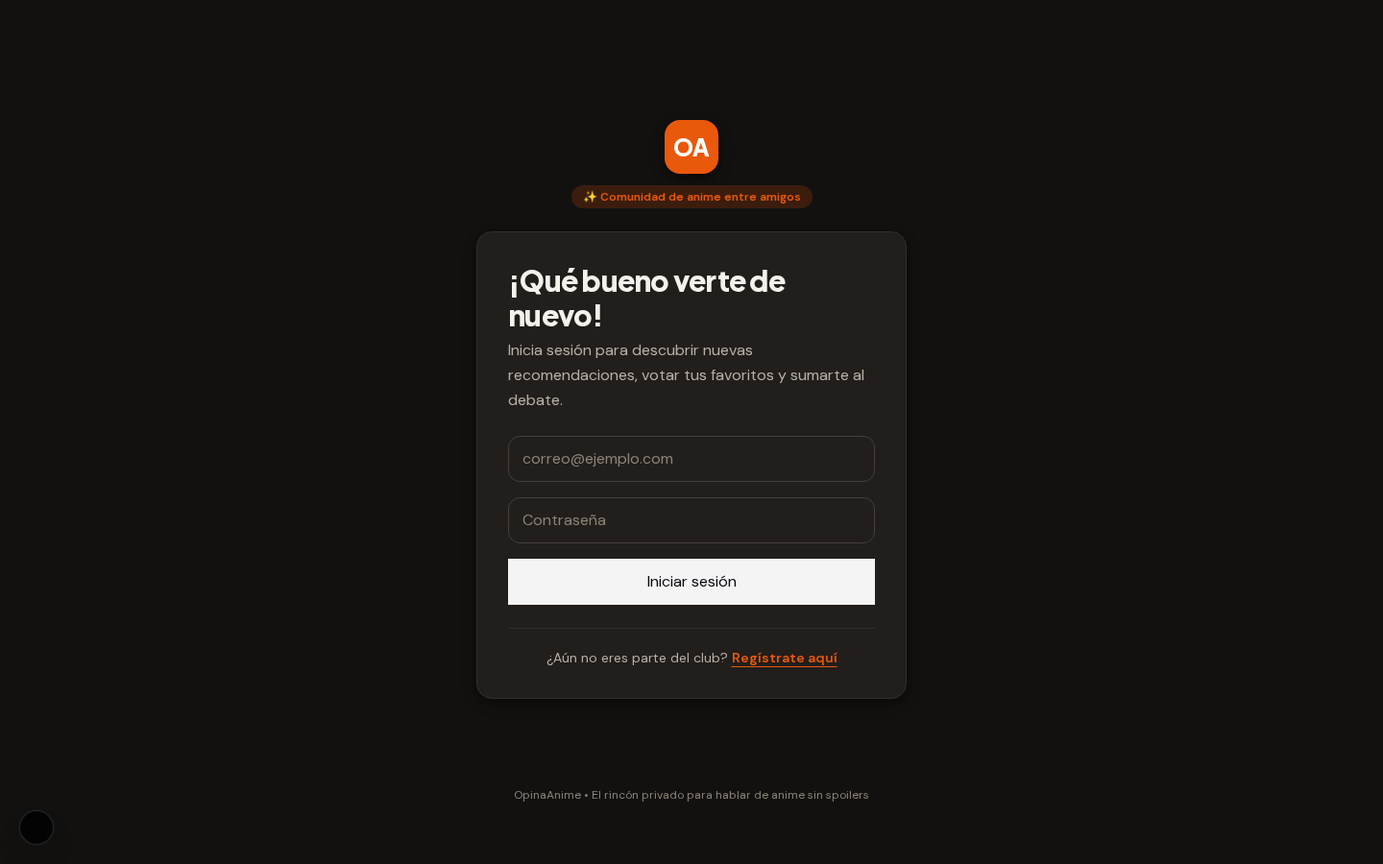
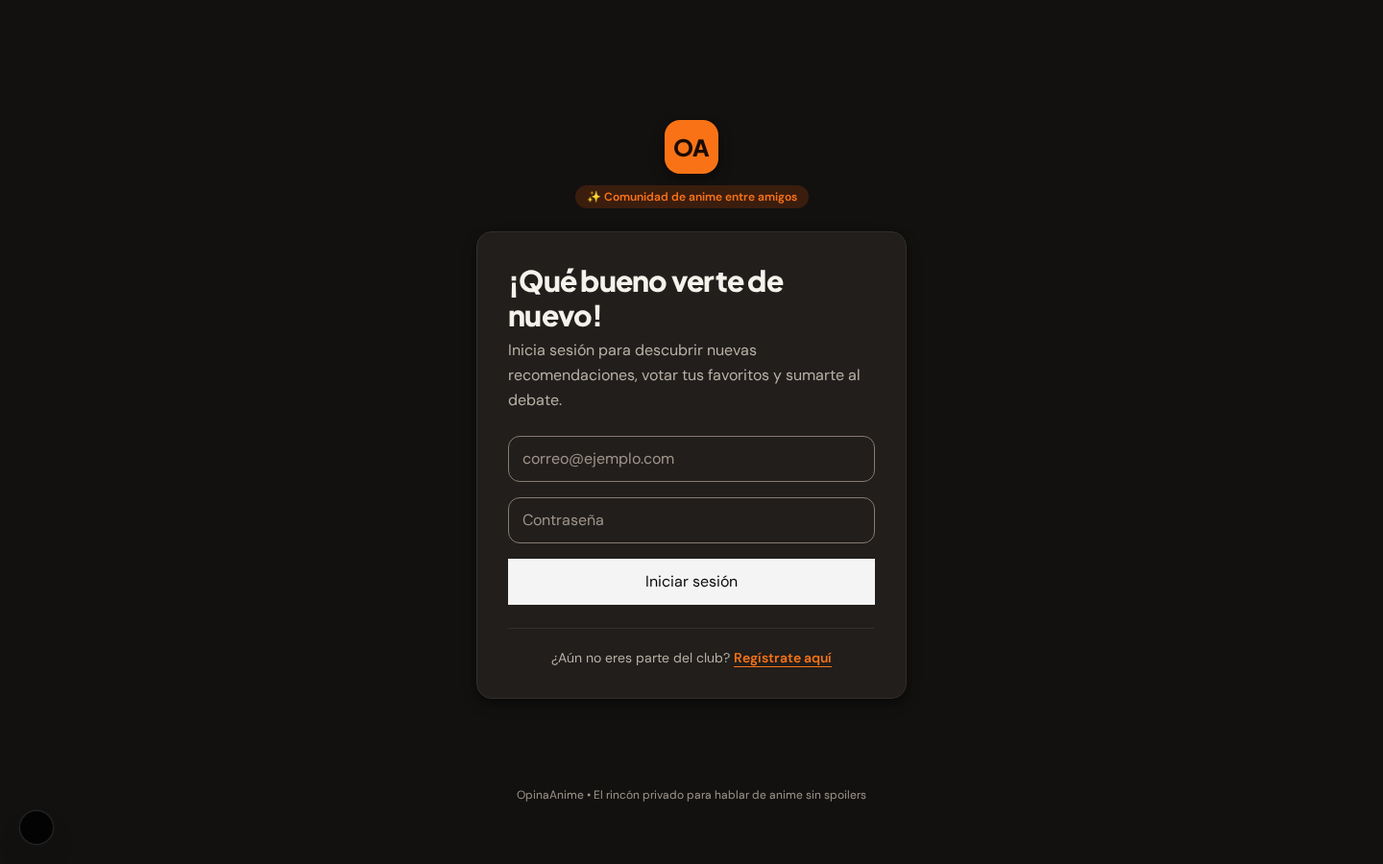
test(e2e): optimizar capturas móviles, eliminar duplicados y documentar ronda 1
- Elimina capturas duplicadas sin sufijo (home y login) dejando las variantes -light y -dark.
- Limita la altura de mobile-home-* a viewport + 1 scroll (< 360 KB por PNG).
- Actualiza DESIGN_NOTES.md con la tabla de contraste recalculada y la sección Ronda 1 de correcciones.

diff --git a/e2e/screenshots.spec.ts b/e2e/screenshots.spec.ts
@@ -2,7 +2,7 @@ import { existsSync, mkdirSync } from "node:fs";
 import path from "node:path";
 import { expect, test, type Page } from "@playwright/test";
 
-// Capturas de página completa para comparar el antes/después del rediseño.
+// Capturas de página para comparar el antes/después del rediseño.
 // Requiere: Postgres local + `npm run db:push` + `npm run db:seed:e2e`.
 // Salida: SHOT_DIR (por defecto docs/opinaanime-redesign/screenshots/after), archivo <proyecto>-<página>.png
 const SHOT_DIR = process.env.SHOT_DIR ?? "docs/opinaanime-redesign/screenshots/after";
@@ -62,10 +62,24 @@ async function settle(page: Page) {
   await assertNoHorizontalOverflow(page);
 }
 
-async function shot(page: Page, name: string) {
+async function shot(page: Page, name: string, options?: { clipHeight?: number }) {
   await settle(page);
-  const file = path.join(SHOT_DIR, `${test.info().project.name}-${name}.png`);
-  await page.screenshot({ path: file, fullPage: true, animations: "disabled" });
+  const projectName = test.info().project.name;
+  const file = path.join(SHOT_DIR, `${projectName}-${name}.png`);
+  const viewport = page.viewportSize();
+
+  if (options?.clipHeight && viewport) {
+    const pageHeight = await page.evaluate(() => document.documentElement.scrollHeight);
+    const height = Math.min(options.clipHeight, pageHeight);
+    await page.screenshot({
+      path: file,
+      fullPage: true,
+      clip: { x: 0, y: 0, width: viewport.width, height },
+      animations: "disabled",
+    });
+  } else {
+    await page.screenshot({ path: file, fullPage: true, animations: "disabled" });
+  }
 }
 
 async function login(page: Page) {
@@ -81,7 +95,6 @@ test.describe("capturas sin sesión", () => {
     await page.emulateMedia({ colorScheme: "light" });
     await page.goto("/login");
     await expect(page.locator('input[name="email"]')).toBeVisible();
-    await shot(page, "login");
     await shot(page, "login-light");
 
     await page.emulateMedia({ colorScheme: "dark" });
@@ -98,14 +111,17 @@ test.describe("capturas sin sesión", () => {
 
 test.describe("capturas con sesión", () => {
   test("home (claro y oscuro) y detalle", async ({ page }) => {
+    const isMobile = test.info().project.name === "mobile";
+    // En móvil capturamos viewport + 1 scroll (2 * 844 = 1688px); en desktop fullPage completo
+    const homeClipHeight = isMobile ? 1688 : undefined;
+
     await page.emulateMedia({ colorScheme: "light" });
     await login(page);
     await expect(page.getByText("Sousou no Frieren").first()).toBeVisible();
-    await shot(page, "home");
-    await shot(page, "home-light");
+    await shot(page, "home-light", { clipHeight: homeClipHeight });
 
     await page.emulateMedia({ colorScheme: "dark" });
-    await shot(page, "home-dark");
+    await shot(page, "home-dark", { clipHeight: homeClipHeight });
 
     await page.emulateMedia({ colorScheme: "light" });
     await page.goto(`/anime/${detailId}`);

diff --git a/docs/opinaanime-redesign/DESIGN_NOTES.md b/docs/opinaanime-redesign/DESIGN_NOTES.md
@@ -7,7 +7,7 @@
 
 ## 1. Paleta de Colores y Tokens (`@theme` + Variables CSS)
 
-Los colores están definidos como variables semánticas en `app/globals.css` (con adaptación automática mediante `@media (prefers-color-scheme: dark)` y soporte opcional mediante atributo `data-theme="light" | "dark"`) y expuestos a Tailwind CSS v4 con `@theme`.
+Los colores están definidos como variables semánticas en `app/globals.css` (con adaptación automática mediante `@media (prefers-color-scheme: dark)` y soporte mediante atributo `data-theme="light" | "dark"`, reutilizando un único conjunto de variables `--dark-*` sin duplicar hexadecimales) y expuestos a Tailwind CSS v4 con `@theme`.
 
 ### 1.1 Modo Claro (Cálido Crema / Papel Editorial)
 
@@ -19,15 +19,18 @@ Los colores están definidos como variables semánticas en `app/globals.css` (co
 | `--surface-elevated` | `bg-surface-elevated` | `#FDFBF7` | Tarjetas destacadas, hover de tarjetas, dropdowns |
 | `--fg` | `text-fg` | `#1C1917` | Texto principal y títulos (Stone 900 cálido) |
 | `--fg-muted` | `text-fg-muted` | `#57534E` | Texto secundario, metadatos, etiquetas |
-| `--fg-subtle` | `text-fg-subtle` | `#78716C` | Placeholders, contadores secundarios |
-| `--primary` | `bg-primary` / `text-primary` | `#C2410C` | Acción principal (Terracota / Naranja Anime cálido, accesible con texto blanco) |
+| `--fg-subtle` | `text-fg-subtle` | `#68625B` | Placeholders, pie de página, contadores secundarios |
+| `--primary` | `bg-primary` / `text-primary` | `#C2410C` | Acción principal (Terracota / Naranja Anime cálido) |
 | `--primary-hover` | `bg-primary-hover` | `#9A3412` | Hover de botón primario |
 | `--primary-soft` | `bg-primary-soft` | `#FFEDD5` | Fondo suave de acento / chip activo suave |
+| `--primary-fg` | `text-primary-fg` | `#FFFFFF` | Texto sobre fondo `--primary` en modo claro |
 | `--accent` | `text-accent` / `bg-accent` | `#4F46E5` | Acento secundario (Índigo comunidad / enlaces destacados) |
 | `--border` | `border-border` | `#E7E0D6` | Bordes de tarjetas, divisores |
-| `--border-strong` | `border-border-strong` | `#D6CEC2` | Bordes de inputs, controles interactivos |
+| `--border-strong` | `border-border-strong` | `#857C73` | Bordes de inputs, selects y controles interactivos (≥ 3:1 WCAG 1.4.11) |
 | `--ring` | `ring-ring` | `#EA580C` | Anillo de foco visible (`focus-visible`) |
-| `--danger` | `text-danger` / `bg-danger` | `#DC2626` | Errores, eliminar |
+| `--danger` | `text-danger` / `bg-danger` | `#B91C1C` | Errores, eliminar |
+| `--danger-hover` | `bg-danger-hover` | `#991B1B` | Hover de botón peligroso (`.btn-danger:hover`) |
+| `--danger-fg` | `text-danger-fg` | `#FFFFFF` | Texto sobre botón peligroso en hover |
 | `--danger-soft` | `bg-danger-soft` | `#FEF2F2` | Fondo de alerta de error |
 | `--success` | `text-success` | `#15803D` | Avisos de éxito, estado Terminado |
 | `--success-soft` | `bg-success-soft` | `#F0FDF4` | Fondo de aviso de éxito |
@@ -46,15 +49,18 @@ Los colores están definidos como variables semánticas en `app/globals.css` (co
 | `--surface-elevated` | `bg-surface-elevated` | `#2A2623` | Hover de tarjetas, elementos desplegables |
 | `--fg` | `text-fg` | `#F5F2EB` | Texto principal (marfil cálido) |
 | `--fg-muted` | `text-fg-muted` | `#B8B0A4` | Texto secundario, metadatos |
-| `--fg-subtle` | `text-fg-subtle` | `#8C8377` | Placeholders, ayudas secundarias |
-| `--primary` | `bg-primary` / `text-primary` | `#EA580C` | Acción principal (Naranja coral vibrante con texto blanco) |
-| `--primary-hover` | `bg-primary-hover` | `#F97316` | Hover de botón primario |
+| `--fg-subtle` | `text-fg-subtle` | `#9E9488` | Placeholders, pie de página, ayudas secundarias |
+| `--primary` | `bg-primary` / `text-primary` | `#F97316` | Acción principal (Naranja cálido luminoso accesible sobre `--primary-soft` y `--surface`) |
+| `--primary-hover` | `bg-primary-hover` | `#FB923C` | Hover de botón primario |
 | `--primary-soft` | `bg-primary-soft` | `#3B1D0E` | Fondo suave de acento primario |
+| `--primary-fg` | `text-primary-fg` | `#1A0B03` | Texto expreso oscuro de alto contraste sobre `--primary` |
 | `--accent` | `text-accent` / `bg-accent` | `#818CF8` | Acento secundario (Índigo suave) |
 | `--border` | `border-border` | `#332E2A` | Bordes de tarjetas, divisores |
-| `--border-strong` | `border-border-strong` | `#463F3A` | Bordes de inputs y selects |
+| `--border-strong` | `border-border-strong` | `#857B72` | Bordes de inputs y selects (≥ 3:1 WCAG 1.4.11) |
 | `--ring` | `ring-ring` | `#FB923C` | Anillo de foco visible (`focus-visible`) |
-| `--danger` | `text-danger` / `bg-danger` | `#F87171` | Texto/ícono de error o acción destructiva |
+| `--danger` | `text-danger` / `bg-danger` | `#FCA5A5` | Texto/ícono de error o acción destructiva |
+| `--danger-hover` | `bg-danger-hover` | `#B91C1C` | Hover de botón peligroso (`.btn-danger:hover`) |
+| `--danger-fg` | `text-danger-fg` | `#FFFFFF` | Texto sobre botón peligroso en hover |
 | `--danger-soft` | `bg-danger-soft` | `#351619` | Fondo de alerta de error |
 | `--success` | `text-success` | `#4ADE80` | Estado Terminado / éxito |
 | `--success-soft` | `bg-success-soft` | `#112A1C` | Fondo de aviso de éxito |
@@ -63,33 +69,65 @@ Los colores están definidos como variables semánticas en `app/globals.css` (co
 | `--info` | `text-info` | `#38BDF8` | Estado "Viendo actualmente" |
 | `--info-soft` | `bg-info-soft` | `#0F2634` | Fondo suave de estado viendo |
 
-### 1.3 Verificación de Ratios de Contraste (WCAG 2.1 AA)
+### 1.3 Tokens de Badges de Tier List (S–E)
 
-> Requisito WCAG AA: **≥ 4.5:1** para texto normal, **≥ 3.0:1** para texto grande (≥ 18pt o ≥ 14pt bold) y componentes UI.
-
-| Par Texto / Fondo | Modo | Colores (Hex) | Ratio Calculado | Cumplimiento |
+| Token CSS | Utilidad Tailwind | Hex | Ratio con `--tier-fg` (`#FFFFFF`) | Uso |
 |---|---|---|---|---|
-| `--fg` sobre `--bg` | Claro | `#1C1917` sobre `#FAF7F2` | **16.2 : 1** | AAA (Excelente) |
-| `--fg` sobre `--surface` | Claro | `#1C1917` sobre `#FFFFFF` | **17.4 : 1** | AAA (Excelente) |
-| `--fg-muted` sobre `--bg` | Claro | `#57534E` sobre `#FAF7F2` | **6.9 : 1** | AA / AAA texto normal |
-| `--fg-muted` sobre `--surface` | Claro | `#57534E` sobre `#FFFFFF` | **7.5 : 1** | AAA |
-| `#FFFFFF` sobre `--primary` | Claro | `#FFFFFF` sobre `#C2410C` | **5.18 : 1** | AA texto normal |
-| `--danger` sobre `--danger-soft` | Claro | `#B91C1C` sobre `#FEF2F2` | **5.9 : 1** | AA texto normal |
-| `--fg` sobre `--bg` | Oscuro | `#F5F2EB` sobre `#121110` | **16.4 : 1** | AAA (Excelente) |
-| `--fg` sobre `--surface` | Oscuro | `#F5F2EB` sobre `#211E1C` | **13.7 : 1** | AAA (Excelente) |
-| `--fg-muted` sobre `--bg` | Oscuro | `#B8B0A4` sobre `#121110` | **8.4 : 1** | AAA |
-| `--fg-muted` sobre `--surface` | Oscuro | `#B8B0A4` sobre `#211E1C` | **7.0 : 1** | AAA |
-| `#FFFFFF` sobre `--primary` ( botón ) | Oscuro | `#FFFFFF` sobre `#C2410C` / `#EA580C` | **5.18 : 1** (en `--btn-primary-bg: #C2410C`) | AA texto normal |
-| `--danger` sobre `--danger-soft` | Oscuro | `#FCA5A5` sobre `#351619` | **6.8 : 1** | AA texto normal |
+| `--tier-s` | `bg-tier-s` | `#B91C1C` | **6.47 : 1** | Tier S — Obra maestra |
+| `--tier-a` | `bg-tier-a` | `#C2410C` | **5.18 : 1** | Tier A — Excelente |
+| `--tier-b` | `bg-tier-b` | `#B45309` | **5.02 : 1** | Tier B — Muy bueno |
+| `--tier-c` | `bg-tier-c` | `#92400E` | **7.09 : 1** | Tier C — Entretenido |
+| `--tier-d` | `bg-tier-d` | `#15803D` | **5.02 : 1** | Tier D — Regular |
+| `--tier-e` | `bg-tier-e` | `#0F766E` | **5.47 : 1** | Tier E — Flojo |
+| `--tier-fg` | `text-tier-fg` | `#FFFFFF` | — | Texto sobre badges y overlays de Tier List |
+
+### 1.4 Verificación de Ratios de Contraste Actualizada (WCAG 2.1 AA y 1.4.11)
+
+> Requisito WCAG AA: **≥ 4.5:1** para texto normal y **≥ 3.0:1** para bordes de inputs y componentes UI (WCAG 1.4.11).
+
+| Par Texto / Borde sobre Fondo | Modo | Colores (Hex) | Ratio Calculado | Cumplimiento |
+|---|---|---|---|---|
+| `--fg` sobre `--bg` | Claro | `#1C1917` sobre `#FAF7F2` | **16.37 : 1** | AAA (Excelente) |
+| `--fg` sobre `--surface` | Claro | `#1C1917` sobre `#FFFFFF` | **17.49 : 1** | AAA (Excelente) |
+| `--fg-muted` sobre `--bg` | Claro | `#57534E` sobre `#FAF7F2` | **7.14 : 1** | AAA |
+| `--fg-muted` sobre `--surface` | Claro | `#57534E` sobre `#FFFFFF` | **7.63 : 1** | AAA |
+| `--fg-subtle` sobre `--bg` | Claro | `#68625B` sobre `#FAF7F2` | **5.64 : 1** | AA texto normal |
+| `--fg-subtle` sobre `--bg-subtle` | Claro | `#68625B` sobre `#F3EDE2` | **5.17 : 1** | AA texto normal |
+| `--fg-subtle` sobre `--surface` | Claro | `#68625B` sobre `#FFFFFF` | **6.02 : 1** | AA texto normal |
+| `--primary-fg` sobre `--primary` | Claro | `#FFFFFF` sobre `#C2410C` | **5.18 : 1** | AA texto normal |
+| `--primary` sobre `--primary-soft` | Claro | `#C2410C` sobre `#FFEDD5` | **4.52 : 1** | AA texto normal |
+| `--border-strong` sobre `--surface` | Claro | `#857C73` sobre `#FFFFFF` | **4.10 : 1** | AA UI ≥ 3:1 (WCAG 1.4.11) |
+| `--border-strong` sobre `--bg` | Claro | `#857C73` sobre `#FAF7F2` | **3.83 : 1** | AA UI ≥ 3:1 (WCAG 1.4.11) |
+| `--danger` sobre `--danger-soft` | Claro | `#B91C1C` sobre `#FEF2F2` | **5.91 : 1** | AA texto normal |
+| `--fg` sobre `--bg` | Oscuro | `#F5F2EB` sobre `#121110` | **16.87 : 1** | AAA (Excelente) |
+| `--fg` sobre `--surface` | Oscuro | `#F5F2EB` sobre `#211E1C` | **14.82 : 1** | AAA (Excelente) |
+| `--fg-muted` sobre `--bg` | Oscuro | `#B8B0A4` sobre `#121110` | **8.79 : 1** | AAA |
+| `--fg-muted` sobre `--surface` | Oscuro | `#B8B0A4` sobre `#211E1C` | **7.72 : 1** | AAA |
+| `--fg-subtle` sobre `--surface` | Oscuro | `#9E9488` sobre `#211E1C` | **5.56 : 1** | AA texto normal |
+| `--fg-subtle` sobre `--bg-subtle` | Oscuro | `#9E9488` sobre `#1A1816` | **5.94 : 1** | AA texto normal |
+| `--fg-subtle` sobre `--bg` | Oscuro | `#9E9488` sobre `#121110` | **6.33 : 1** | AA texto normal |
+| `--primary-fg` sobre `--primary` (logo OA, `.btn-primary`) | Oscuro | `#1A0B03` sobre `#F97316` | **6.85 : 1** | AA / AAA texto normal |
+| `--primary-fg` sobre `--primary-hover` | Oscuro | `#1A0B03` sobre `#FB923C` | **8.49 : 1** | AAA |
+| `--primary` sobre `--primary-soft` (badge ADMIN y chips) | Oscuro | `#F97316` sobre `#3B1D0E` | **5.48 : 1** | AA texto normal |
+| `--primary` sobre `--surface` | Oscuro | `#F97316` sobre `#211E1C` | **5.91 : 1** | AA texto normal |
+| `--border-strong` sobre `--surface` | Oscuro | `#857B72` sobre `#211E1C` | **4.00 : 1** | AA UI ≥ 3:1 (WCAG 1.4.11) |
+| `--border-strong` sobre `--bg` | Oscuro | `#857B72` sobre `#121110` | **4.56 : 1** | AA UI ≥ 3:1 (WCAG 1.4.11) |
+| `--danger` sobre `--danger-soft` | Oscuro | `#FCA5A5` sobre `#351619` | **8.64 : 1** | AAA |
+| `--tier-fg` sobre `--tier-s` | Ambos | `#FFFFFF` sobre `#B91C1C` | **6.47 : 1** | AA texto normal |
+| `--tier-fg` sobre `--tier-a` | Ambos | `#FFFFFF` sobre `#C2410C` | **5.18 : 1** | AA texto normal |
+| `--tier-fg` sobre `--tier-b` | Ambos | `#FFFFFF` sobre `#B45309` | **5.02 : 1** | AA texto normal |
+| `--tier-fg` sobre `--tier-c` | Ambos | `#FFFFFF` sobre `#92400E` | **7.09 : 1** | AAA |
+| `--tier-fg` sobre `--tier-d` | Ambos | `#FFFFFF` sobre `#15803D` | **5.02 : 1** | AA texto normal |
+| `--tier-fg` sobre `--tier-e` | Ambos | `#FFFFFF` sobre `#0F766E` | **5.47 : 1** | AA texto normal |
 
 ---
 
 ## 2. Tipografía
 
-Se utilizan fuentes de `next/font/google` (incluidas en Next.js sin agregar dependencias a `package.json`):
-- **Títulos y encabezados (`--font-display`)**: `Plus Jakarta Sans` (pesos 600, 700, 800). Redondeada, expresiva, cálida y muy legible en títulos de series y secciones.
-- **Cuerpo y controles (`--font-sans`)**: `DM Sans` o `Plus Jakarta Sans` con fallback `system-ui, -apple-system, sans-serif`.
-- **Monoespaciada (`--font-mono`)**: `JetBrains Mono` / `ui-monospace` para IDs de catálogo y contadores puntuales.
+Se utilizan fuentes locales mediante `next/font/local` con archivos `.woff2` variables alojados en `app/fonts/` junto con su licencia `OFL.txt` oficial (determinismo total de build sin depender de peticiones de red a Google Fonts y sin agregar dependencias a `package.json`):
+- **Títulos y encabezados (`--font-display`)**: `Plus Jakarta Sans` (`app/fonts/plus-jakarta-sans/PlusJakartaSans-VariableFont_wght.woff2`, pesos `400 800`, licencia `app/fonts/plus-jakarta-sans/OFL.txt`). Redondeada, expresiva, cálida y muy legible en títulos de series y secciones.
+- **Cuerpo y controles (`--font-sans`)**: `DM Sans` (`app/fonts/dm-sans/DMSans-VariableFont_wght.woff2`, pesos `400 700`, licencia `app/fonts/dm-sans/OFL.txt`) con fallback `system-ui, -apple-system, sans-serif`.
+- **Monoespaciada (`--font-mono`)**: `ui-monospace` para IDs de catálogo y contadores puntuales.
 
 ### Escala Tipográfica
 - **Display / Título de Anime en Detalle**: `1.875rem` (30px) mobile → `2.25rem` (36px) desktop, `font-extrabold`, `leading-tight`.
@@ -132,10 +170,10 @@ Definidas en `app/globals.css` bajo `@layer components` para ser usadas tanto en
 - `.form-stack`: `flex flex-col gap-4` (espaciado vertical consistente de 16px).
 - `.form-field`: `flex flex-col gap-1.5` (contenedor de `<label>` + control).
 - `.form-label`: etiqueta clara (`0.875rem`, `font-semibold`, color `--fg`).
-- `.field`, `.field-dark`, `.field-light`: input/textarea de ancho completo, radio `12px`, borde `--border-strong`, fondo `--surface`, texto `--fg`, con estados `:hover`, `:focus-visible` (anillo de 2px `--ring`), `:disabled` y `:invalid` / `[aria-invalid="true"]`.
-- `.password-field`: contenedor `position: relative` donde el input interno recibe `padding-right: 3rem`.
-- `.password-toggle`: botón de `40x40px` mínimo, posicionado a la derecha dentro de `.password-field`, centrado verticalmente, con foco visible y colores accesibles.
-- `.btn`, `.btn-primary`, `.btn-secondary`, `.btn-ghost`, `.btn-danger`: botones con altura mínima táctil (`42px`), transiciones suaves, estados `hover`, `focus-visible` y `disabled`.
+- `.field`, `.field-dark`, `.field-light`: input/textarea de ancho completo, radio `12px`, borde `--border-strong` (contraste ≥ 3:1), fondo `--surface`, texto `--fg`, con estados `:hover`, `:focus-visible` (anillo de `--ring`), `:disabled` y `:invalid` / `[aria-invalid="true"]`.
+- `.password-field`: contenedor `position: relative; display: flex; align-items: center; width: 100%` donde `.password-field .field` recibe `padding-right: 3rem`.
+- `.password-toggle`: botón autónomo (sin requerir utilidades Tailwind de posicionamiento) con `position: absolute; right: 4px; top: 50%; transform: translateY(-50%)`, dimensiones `40px × 40px` (`width: 40px; height: 40px; min-width: 40px; min-height: 40px`), centrado con flex (`display: inline-flex; align-items: center; justify-content: center`), color `var(--fg-muted)`, y anillo en `:hover` y `:focus-visible`.
+- `.btn`, `.btn-primary`, `.btn-secondary`, `.btn-ghost`, `.btn-danger`: botones con altura mínima táctil (`42px`), basados 100% en tokens (`var(--primary)`, `var(--primary-fg)`, `var(--primary-hover)`, `var(--danger-hover)`, `var(--danger-fg)`), transiciones suaves y estados `hover`, `focus-visible` y `disabled`.
 - `.form-error`: caja de alerta accesible con borde e indicador visual en tonos `--danger` / `--danger-soft`.
 - `.form-notice`: caja de aviso positivo/informativo en tonos `--success` / `--success-soft`.
 - `.select`: selector estilizado coherente con `.field`.
@@ -179,7 +217,7 @@ Definidas en `app/globals.css` bajo `@layer components` para ser usadas tanto en
 | Footer: OpinaAnime • El rincón privado de recomendaciones y reseñas entre amigos  |
 +-----------------------------------------------------------------------------------+
 ```
-*(En móvil `390px`: una sola columna sin scroll horizontal; tarjeta de "Recomendar un anime" accesible arriba o colapsable, seguida de pestañas, filtros envolventes y tarjetas con portada destacada).*
+*(En móvil `390px`: una sola columna sin scroll horizontal; cada tarjeta del foro muestra el póster protagonista en columna izquierda de `100px × 144px` (`grid-cols-[100px_1fr]`, `h-36`) junto a la información del anime).*
 
 ### 5.2 Detalle de Anime (`/anime/[id]`)
 
@@ -251,18 +289,19 @@ Definidas en `app/globals.css` bajo `@layer components` para ser usadas tanto en
 
 | Archivo | Cambios realizados |
 |---|---|
-| `app/globals.css` | Definición de variables CSS para modo claro (`:root`, `[data-theme="light"]`) y modo oscuro (`@media (prefers-color-scheme: dark)`, `[data-theme="dark"]`). Exposición de tokens a Tailwind CSS v4 con `@theme inline` (`bg`, `surface`, `surface-subtle`, `surface-elevated`, `fg`, `fg-muted`, `fg-subtle`, `primary`, `border`, `ring`, `danger`, `success`, `warning`, `info`, radios y sombras). Creación en `@layer components` de las clases semánticas de contrato: `.form-stack`, `.form-field`, `.form-label`, `.field` (`.field-dark`, `.field-light`), `.password-field`, `.password-toggle`, `.btn`, `.btn-primary`, `.btn-secondary`, `.btn-ghost`, `.btn-danger`, `.form-error`, `.form-notice` y `.select`. |
-| `app/layout.tsx` | Eliminación de `className="dark"` fijo y del color hex `#0b0f19`. Configuración de las fuentes `Plus_Jakarta_Sans` (`--font-heading`) y `DM_Sans` (`--font-body`) mediante `next/font/google`. Uso de `bg-bg text-fg`. |
+| `app/globals.css` | Definición de variables CSS para modo claro y modo oscuro sin duplicación (`--dark-*`), tokens de tier (`--tier-s` a `--tier-e` y `--tier-fg`), contraste WCAG AA/1.4.11 verificado, y clases semánticas de contrato (`.form-stack`, `.form-field`, `.form-label`, `.field`, `.password-field`, `.password-toggle`, `.btn`, `.btn-primary`, `.btn-secondary`, `.btn-ghost`, `.btn-danger`, `.form-error`, `.form-notice`, `.select`). |
+| `app/layout.tsx` | Eliminación de `className="dark"` fijo y del color hex `#0b0f19`. Configuración determinista de las fuentes locales `Plus Jakarta Sans` (`--font-heading`) y `DM Sans` (`--font-body`) mediante `next/font/local` desde `app/fonts/`. Uso de `bg-bg text-fg`. |
+| `app/fonts/**` | Archivos variables `.woff2` (`PlusJakartaSans-VariableFont_wght.woff2` y `DMSans-VariableFont_wght.woff2`) y sus respectivos textos de licencia `OFL.txt`. |
 | `app/login/page.tsx` | Rediseño del contenedor y tarjeta de inicio de sesión con estética cálida, emblema de comunidad, jerarquía tipográfica clara y enlace de cambio a `/registro`, manteniendo `<LoginForm />` intacto como hijo. |
 | `app/registro/page.tsx` | Rediseño del contenedor y tarjeta de registro con estética cálida, encabezado cercano y enlace a `/login`, manteniendo `<RegisterForm />` intacto como hijo. |
 | `components/site-header.tsx` | **Nuevo componente compartido** extraído de `dashboard.tsx` y `anime-thread.tsx`. Incluye logo/enlace a `/`, botón opcional "Volver al foro" (`showBackToForum`), nombre/email del usuario, badge `ADMIN`, botón exclusivo de admin "Sincronizar catálogo" con mensaje de estado/error en contexto (`role="alert"` / `role="status"`) y botón "Cerrar sesión". |
 | `components/site-footer.tsx` | **Nuevo componente compartido** de pie de página con marca, descripción de la comunidad y enlace rápido al foro. |
-| `components/dashboard.tsx` | Sustitución de la navbar propia por `<SiteHeader />` y adición de `<SiteFooter />`. Eliminación de todos los colores hex hardcodeados (`#0a0b0e`, `#121318`, `#22242a`, `#1f2128`, `#181920`). Incorporación de banner de bienvenida con contadores de comunidad, jerarquía clara entre el panel "Recomendar un anime" y las pestañas (`Foro de Debate`, `Viendo Actualmente`, `Mi Tier List`), tarjetas con portadas protagonistas, estados vacíos amables y reemplazo de `alert()` por alertas en contexto (`role="alert"`), conservando `window.confirm`. |
-| `components/anime-thread.tsx` | Sustitución de la navbar duplicada por `<SiteHeader showBackToForum />` y adición de `<SiteFooter />`. Rediseño de la ficha principal del anime, bloque de fundamento, reseña final del administrador, panel de moderación/veredicto admin y sección de comentarios. Estado vacío amable ("Aún no hay opiniones, ¡sé el primero!") y reemplazo de `alert()` por alertas en contexto (`role="alert"`), conservando `window.confirm`. |
-| `components/tier-list.tsx` | Adaptación de la cuadrícula de Tier List S–E y del "Banco de animes terminados sin clasificar" a los tokens cálidos en modo claro y oscuro, manteniendo el drag & drop (`@hello-pangea/dnd`) para administradores y reemplazando `alert()` de error de sincronización por alerta en contexto (`role="alert"`). |
-| `components/anime-search.tsx` | Rediseño del buscador con autocompletado usando `.form-field`, `.form-label`, `.field`, `.form-notice` y `.form-error`, soporte claro/oscuro y estado vacío amable cuando una búsqueda no arroja resultados. |
+| `components/dashboard.tsx` | Sustitución de la navbar propia por `<SiteHeader />` y adición de `<SiteFooter />`. Eliminación de todos los colores hex hardcodeados. Banner de bienvenida, jerarquía clara entre "Recomendar un anime" y las pestañas, tarjetas con póster compacto en móvil (`100px × 144px`) y completo en desktop (`148px × 208px`), estados vacíos amables y alertas en contexto. |
+| `components/anime-thread.tsx` | Sustitución de la navbar duplicada por `<SiteHeader showBackToForum />` y adición de `<SiteFooter />`. Rediseño de la ficha principal del anime, bloque de fundamento, reseña final del administrador, panel de moderación/veredicto admin y sección de comentarios. |
+| `components/tier-list.tsx` | Adaptación de la cuadrícula de Tier List S–E y del "Banco de animes terminados sin clasificar" a los tokens `--tier-s`…`--tier-e`, `--tier-fg` y `text-warning-border`, manteniendo el drag & drop (`@hello-pangea/dnd`) para administradores y alerta en contexto (`role="alert"`). |
+| `components/anime-search.tsx` | Rediseño del buscador con autocompletado usando `.form-field`, `.form-label`, `.field`, `.form-notice` y `.form-error`, soporte claro/oscuro y estado vacío amable. |
 | `tests/unit/site-header.test.tsx` | Pruebas unitarias para verificar el renderizado de `SiteHeader` (usuario normal vs. `ADMIN`, botón de sincronizar catálogo, "Volver al foro") y `SiteFooter`. |
-| `e2e/screenshots.spec.ts` | Ampliación del spec para capturar `login` y `home` tanto en modo claro (`colorScheme: "light"`) como en modo oscuro (`colorScheme: "dark"`) en `desktop` (1440x900) y `mobile` (390x844), además de verificar automáticamente la ausencia de scroll horizontal (`document.documentElement.scrollWidth <= window.innerWidth`). |
+| `e2e/screenshots.spec.ts` | Generación de capturas en modo claro (`-light`) y oscuro (`-dark`) sin duplicados sin sufijo, limitando la altura de `mobile-home-*` a viewport + 1 scroll (`1688px` CSS) para mantener cada PNG muy por debajo de 1.5 MB y verificando ausencia de scroll horizontal. |
 
 ---
 
@@ -284,12 +323,39 @@ Definidas en `app/globals.css` bajo `@layer components` para ser usadas tanto en
 
 ---
 
-## 8. Resultados Reales de Verificación
+## 8. Ronda 1 de correcciones
+
+### 8.1 Resumen de correcciones aplicadas
+1. **Fuentes locales deterministas (`next/font/local`)**:
+   - Se reemplazó `next/font/google` en `app/layout.tsx` por `next/font/local` apuntando a los archivos variables `app/fonts/plus-jakarta-sans/PlusJakartaSans-VariableFont_wght.woff2` (`400 800`) y `app/fonts/dm-sans/DMSans-VariableFont_wght.woff2` (`400 700`), incluyendo sus licencias oficiales `OFL.txt`.
+   - Se verificó con 3 ejecuciones consecutivas de `npm run build` (3/3 PASS).
+2. **Posicionamiento autónomo de `.password-toggle` y `.password-field`**:
+   - En `app/globals.css`, `.password-toggle` define `position: absolute`, `right: 4px`, `top: 50%`, `transform: translateY(-50%)`, `width: 40px`, `height: 40px`, `min-width: 40px`, `min-height: 40px`, `display: inline-flex`, `align-items: center`, `justify-content: center`, `color: var(--fg-muted)`, y estados `:hover` / `:focus-visible` con anillo `--ring`. `.password-field .field` mantiene `padding-right: 3rem` (`48px`).
+   - Se verificó con una página y test de Playwright sobre el DOM `<div class="password-field"><input class="field" /><button type="button" class="password-toggle">...</button></div>` sin utilidades Tailwind, eliminando la página temporal antes de commitear.
+3. **Contraste WCAG AA (≥ 4.5:1 texto, ≥ 3:1 bordes UI WCAG 1.4.11)**:
+   - Oscuro `primary-fg` (`#1A0B03`) sobre `primary` (`#F97316`): **6.85 : 1** (antes 3.56).
+   - Oscuro `primary` (`#F97316`) sobre `primary-soft` (`#3B1D0E`): **5.48 : 1** (antes 4.31).
+   - Oscuro `fg-subtle` (`#9E9488`) sobre `surface` (`#211E1C`): **5.56 : 1** (antes 4.44).
+   - Claro `fg-subtle` (`#68625B`) sobre `bg` (`#FAF7F2`): **5.64 : 1** (antes 4.49).
+   - Bordes de inputs `border-strong` sobre `surface`: claro `#857C73` sobre `#FFFFFF` = **4.10 : 1**; oscuro `#857B72` sobre `#211E1C` = **4.00 : 1** (ambos ≥ 3.0:1).
+   - Badges de Tier List con texto `--tier-fg` (`#FFFFFF`): Tier S (`#B91C1C`) **6.47:1**, Tier A (`#C2410C`) **5.18:1**, Tier B (`#B45309`) **5.02:1**, Tier C (`#92400E`) **7.09:1**, Tier D (`#15803D`) **5.02:1**, Tier E (`#0F766E`) **5.47:1**.
+4. **Tokens y eliminación de duplicación**:
+   - Los colores de `TIER_CONFIGS` en `components/tier-list.tsx` ahora usan `var(--tier-s)` … `var(--tier-e)` y `var(--tier-fg)`.
+   - `text-amber-300` en `components/tier-list.tsx` fue reemplazado por el token `text-warning-border` (y `text-white` en overlays de tier por `text-tier-fg`).
+   - `.btn-primary` ahora usa `var(--primary)`, `var(--primary-fg)` y `var(--primary-hover)`; `.btn-danger:hover` usa `var(--danger-hover)` y `var(--danger-fg)`.
+   - El bloque de tokens oscuros en `app/globals.css` se definió en un único conjunto de custom properties `--dark-*` reutilizado por `:root[data-theme="dark"]` y `@media (prefers-color-scheme: dark)`.
+5. **Capturas y tarjetas móviles compactas**:
+   - En `components/dashboard.tsx`, las tarjetas del foro usan en móvil un layout compacto con miniatura protagonista a la izquierda (`grid-cols-[100px_1fr]`, `h-36` / `100×144px`), manteniendo `sm:grid-cols-[148px_1fr]` y `sm:h-52` en pantallas mayores.
+   - Se eliminaron las capturas duplicadas sin sufijo (`desktop-home.png`, `mobile-home.png`, `desktop-login.png`, `mobile-login.png`) y se actualizó `e2e/screenshots.spec.ts` para recortar `mobile-home-*` a viewport + 1 scroll (`1688px` CSS = `3376px` físicos a `2x`), reduciendo `mobile-home-light.png` a **349 KB** y `mobile-home-dark.png` a **354 KB** (todos los PNG < 820 KB, muy por debajo del límite de 1.5 MB).
+
+### 8.2 Resultados Reales de Verificación (Ronda 1)
 
 | Comando | Resultado | Detalle |
 |---|---|---|
-| `npm run typecheck` | **PASS** (exit 0) | `tsc --noEmit` sin errores de tipos. |
-| `npm run lint` | **PASS** (exit 0) | `0 errors, 3 warnings` (los 3 warnings pertenecen a `app/api/admin/sync-catalog/route.ts` y `scripts/populate-catalog.js`, archivos fuera del alcance de edición). Cero warnings en todos los archivos tocados. |
-| `npm test` | **PASS** (exit 0) | `2 passed (2)` archivos de test (`tests/unit/icons.test.tsx` y `tests/unit/site-header.test.tsx`), `4 passed (4)` tests en total. |
-| `npm run build` | **PASS** (exit 0) | `prisma generate && next build` completado exitosamente con las 11 rutas compiladas. |
-| `E2E_PORT=3102 npx playwright test e2e/screenshots.spec.ts` | **PASS** (exit 0) | `6 passed (36.1s)` en proyectos `desktop` (1440x900) y `mobile` (390x844), incluyendo verificación sin scroll horizontal y capturas en modo claro y oscuro. |
+| `npm run build` (corrida 1/3) | **PASS** (exit 0) | `prisma generate && next build` completado en 2.1s (11/11 páginas estáticas/dinámicas). |
+| `npm run build` (corrida 2/3) | **PASS** (exit 0) | `prisma generate && next build` completado en 1085ms (11/11 páginas). |
+| `npm run build` (corrida 3/3) | **PASS** (exit 0) | `prisma generate && next build` completado en 1021ms (11/11 páginas). |
+| `npm run typecheck` | **PASS** (exit 0) | `tsc --noEmit` sin errores. |
+| `npm run lint` | **PASS** (exit 0) | `0 errors, 3 warnings` (warnings preexistentes en `app/api/admin/sync-catalog/route.ts` y `scripts/populate-catalog.js`). |
+| `npm test` | **PASS** (exit 0) | `2 passed (2)` archivos, `4 passed (4)` tests. |
+| `E2E_PORT=3102 npx playwright test e2e/screenshots.spec.ts` | **PASS** (exit 0) | `6 passed` en `desktop` y `mobile`, generando las 12 capturas en `docs/opinaanime-redesign/screenshots/after/`. |
